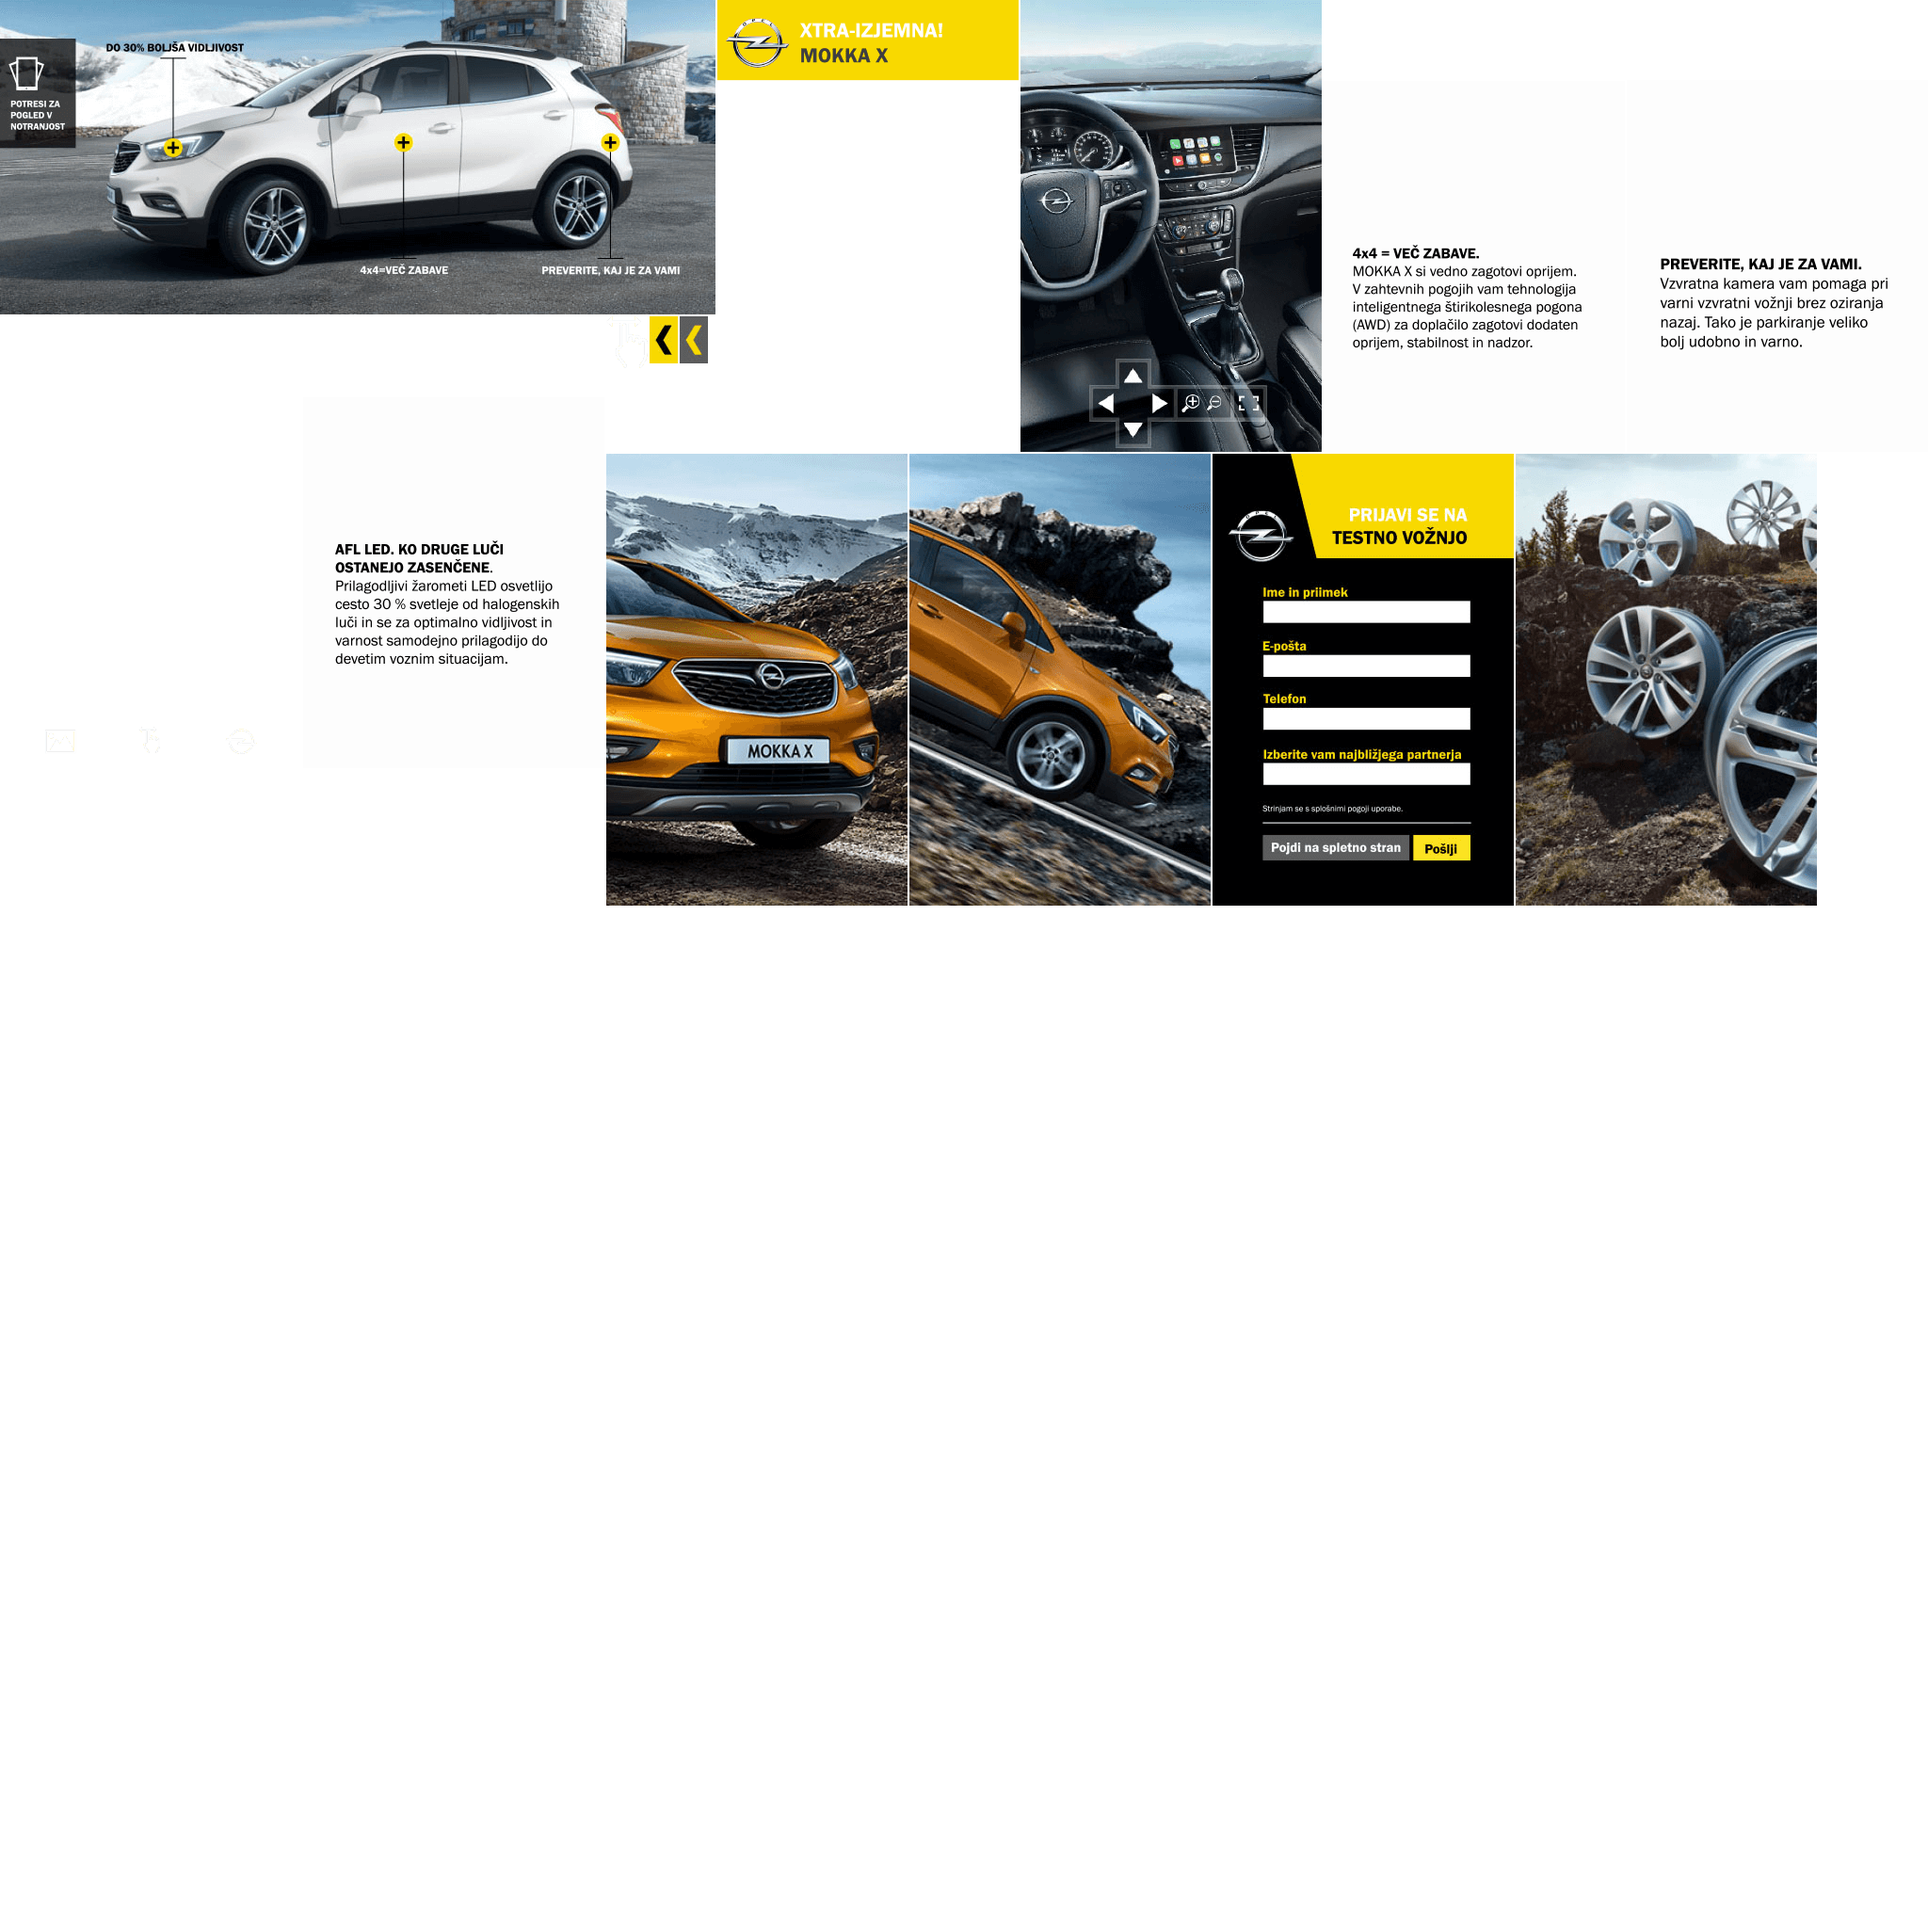
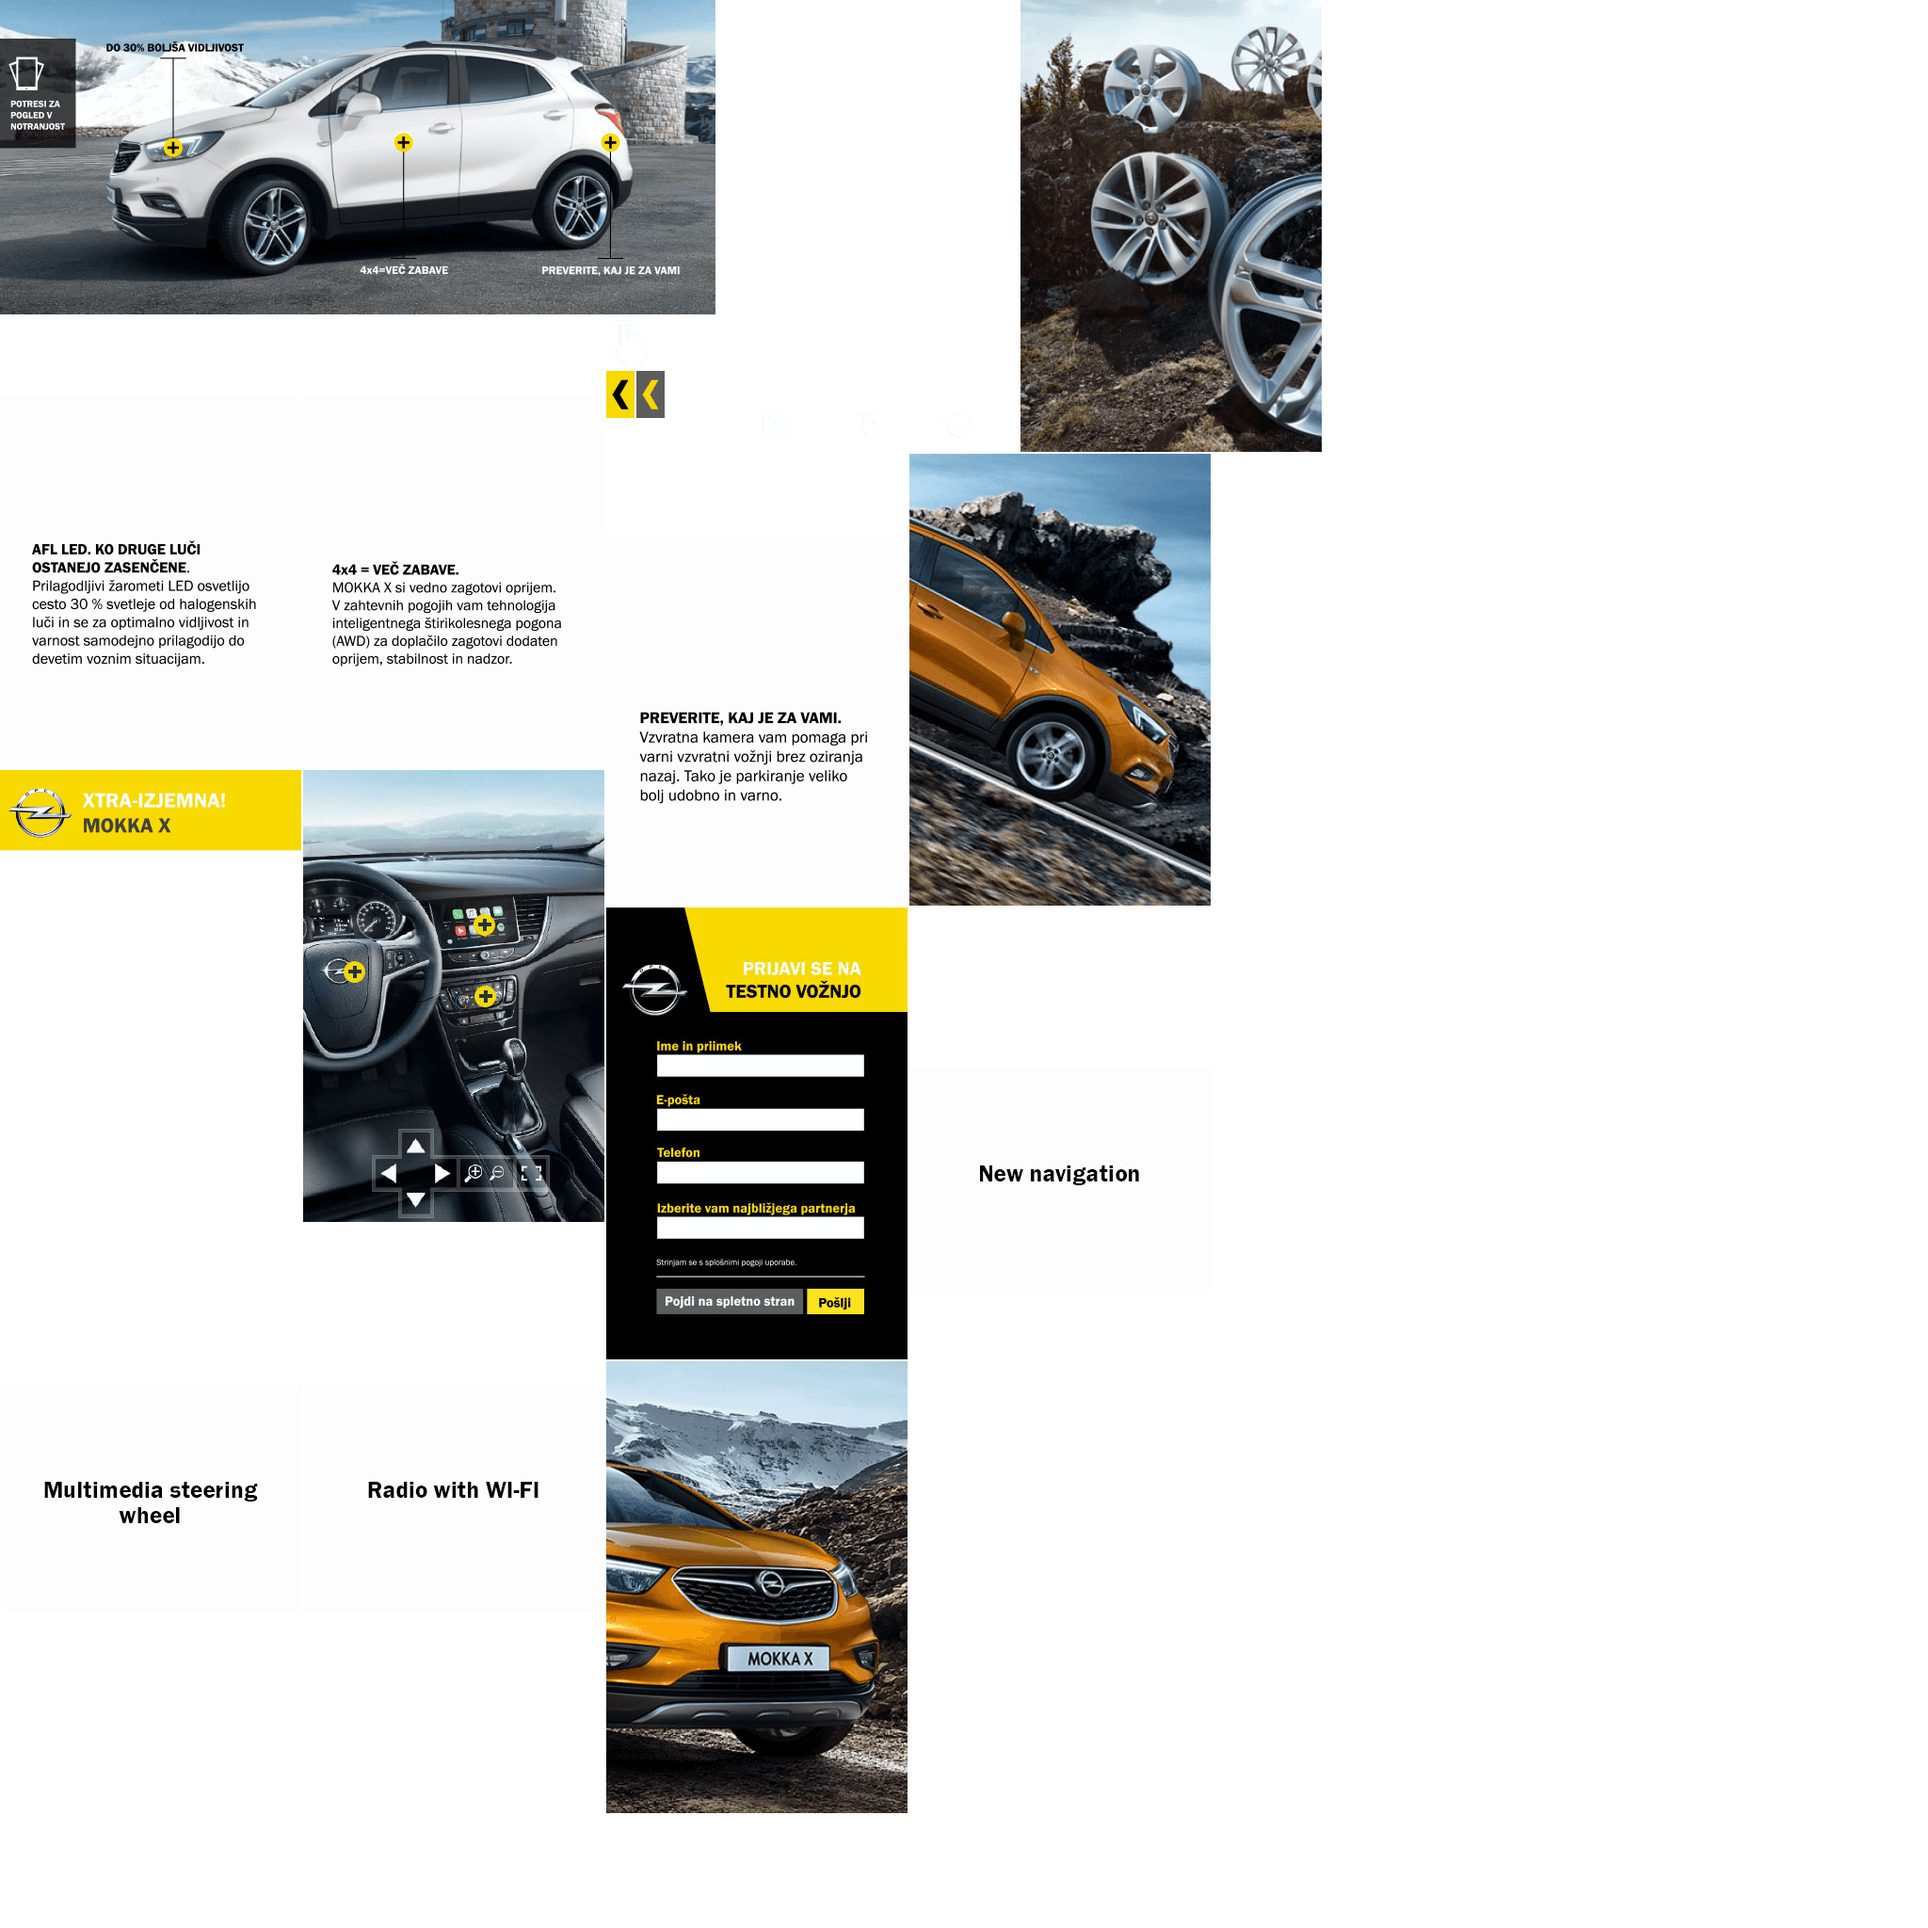
Add files via upload

diff --git a/index.js b/index.js
@@ -10,14 +10,14 @@ lib.properties = {
 	color: "#FFFFFF",
 	opacity: 1.00,
 	manifest: [
-		{src:"images/index_atlas_.png?1481831180453", id:"index_atlas_"}
+		{src:"images/index_atlas_.png?1482342594342", id:"index_atlas_"}
 	]
 };
 
 
 
 lib.ssMetadata = [
-		{name:"index_atlas_", frames: [[322,336,320,480],[1406,0,320,480],[1728,0,320,480],[0,336,320,480],[762,0,320,480],[1084,0,320,480],[0,0,760,334],[690,336,30,50],[722,336,30,50],[644,336,44,56],[644,482,320,480],[966,482,320,480],[1610,482,320,480],[1288,482,320,480]]}
+		{name:"index_atlas_", frames: [[0,336,320,480],[322,336,320,480],[644,482,320,480],[762,0,320,480],[0,818,320,480],[322,818,320,480],[0,0,760,334],[644,394,30,50],[676,394,30,50],[644,336,44,56],[644,1446,320,480],[966,482,320,480],[1084,0,320,480],[644,964,320,480],[0,1300,320,480],[966,964,320,480],[322,1300,320,480]]}
 ];
 
 
@@ -123,6 +123,39 @@ lib.ssMetadata = [
 
 
 
+(lib.text1 = function() {
+	this.spriteSheet = ss["index_atlas_"];
+	this.gotoAndStop(14);
+}).prototype = p = new cjs.Sprite();
+
+
+
+(lib.text2 = function() {
+	this.spriteSheet = ss["index_atlas_"];
+	this.gotoAndStop(15);
+}).prototype = p = new cjs.Sprite();
+
+
+
+(lib.text3 = function() {
+	this.spriteSheet = ss["index_atlas_"];
+	this.gotoAndStop(16);
+}).prototype = p = new cjs.Sprite();
+
+
+
+(lib.Weel = function(mode,startPosition,loop) {
+	this.initialize(mode,startPosition,loop,{});
+
+	// Layer 1
+	this.instance = new lib.text1();
+
+	this.timeline.addTween(cjs.Tween.get(this.instance).wait(1));
+
+}).prototype = p = new cjs.MovieClip();
+p.nominalBounds = new cjs.Rectangle(0,0,320,480);
+
+
 (lib.unutarnjost_back = function(mode,startPosition,loop) {
 	this.initialize(mode,startPosition,loop,{});
 
@@ -217,6 +250,30 @@ p.nominalBounds = new cjs.Rectangle(-160,-240,320,480);
 
 }).prototype = p = new cjs.MovieClip();
 p.nominalBounds = new cjs.Rectangle(0,0,28.2,35.9);
+
+
+(lib.RadioWIFI = function(mode,startPosition,loop) {
+	this.initialize(mode,startPosition,loop,{});
+
+	// Layer 1
+	this.instance = new lib.text3();
+
+	this.timeline.addTween(cjs.Tween.get(this.instance).wait(1));
+
+}).prototype = p = new cjs.MovieClip();
+p.nominalBounds = new cjs.Rectangle(0,0,320,480);
+
+
+(lib.Navigation = function(mode,startPosition,loop) {
+	this.initialize(mode,startPosition,loop,{});
+
+	// Layer 1
+	this.instance = new lib.text2();
+
+	this.timeline.addTween(cjs.Tween.get(this.instance).wait(1));
+
+}).prototype = p = new cjs.MovieClip();
+p.nominalBounds = new cjs.Rectangle(0,0,320,480);
 
 
 (lib.Gallery_back = function(mode,startPosition,loop) {
@@ -322,16 +379,136 @@ p.nominalBounds = null;
 (lib.unutarnjost = function(mode,startPosition,loop) {
 	this.initialize(mode,startPosition,loop,{});
 
-	// Layer 1
+	// timeline functions:
+	this.frame_0 = function() {
+		/* Mouse Click Event
+		Clicking on the specified symbol instance executes a function in which you can add your own custom code.
+		
+		Instructions:
+		1. Add your custom code on a new line after the line that says "// Start your custom code" below.
+		The code will execute when the symbol instance is clicked.
+		*/
+		var opened = false;
+		this.openWeel.addEventListener("click", fl_MouseClickHandler_14.bind(this));
+		
+		function fl_MouseClickHandler_14()
+		{
+			if(!opened){
+					TweenLite.to(this.Weel,1, {
+					y: "-=480",
+				ease: Power2.easeOut
+				})
+				opened = true;
+			}
+		}
+		this.Weel.addEventListener("click", fl_MouseClickHandler_15.bind(this));
+		
+		function fl_MouseClickHandler_15()
+		{
+			if(opened){
+					TweenLite.to(this.Weel,1, {
+					y: "+=480",
+				ease: Power2.easeIn
+				})
+				opened = false;
+			}
+		}
+		
+		//
+		
+		this.openNavigation.addEventListener("click", fl_MouseClickHandler_16.bind(this));
+		
+		function fl_MouseClickHandler_16()
+		{
+			if(!opened){
+					TweenLite.to(this.Navigation,1, {
+					y: "-=480",
+				ease: Power2.easeOut
+				})
+				opened = true;
+			}
+		}
+		this.Navigation.addEventListener("click", fl_MouseClickHandler_17.bind(this));
+		
+		function fl_MouseClickHandler_17()
+		{
+			if(opened){
+					TweenLite.to(this.Navigation,1, {
+					y: "+=480",
+				ease: Power2.easeIn
+				})
+				opened = false;
+			}
+		}
+		
+		
+		///
+		this.openRadio.addEventListener("click", fl_MouseClickHandler_18.bind(this));
+		
+		function fl_MouseClickHandler_18()
+		{
+			if(!opened){
+					TweenLite.to(this.Radio,1, {
+					y: "-=480",
+				ease: Power2.easeOut
+				})
+				opened = true;
+			}
+		}
+		this.Radio.addEventListener("click", fl_MouseClickHandler_19.bind(this));
+		
+		function fl_MouseClickHandler_19()
+		{
+			if(opened){
+					TweenLite.to(this.Radio,1, {
+					y: "+=480",
+				ease: Power2.easeIn
+				})
+				opened = false;
+			}
+		}
+	}
+
+	// actions tween:
+	this.timeline.addTween(cjs.Tween.get(this).call(this.frame_0).wait(1));
+
+	// Text
+	this.Weel = new lib.Weel();
+	this.Weel.setTransform(160,720,1,1,0,0,0,160,240);
+
+	this.Navigation = new lib.Navigation();
+	this.Navigation.setTransform(160,720,1,1,0,0,0,160,240);
+
+	this.Radio = new lib.RadioWIFI();
+	this.Radio.setTransform(160,720,1,1,0,0,0,160,240);
+
+	this.timeline.addTween(cjs.Tween.get({}).to({state:[{t:this.Radio},{t:this.Navigation},{t:this.Weel}]}).wait(1));
+
+	// Buttons
+	this.openNavigation = new lib.Btn1();
+	this.openNavigation.setTransform(173.5,147.6);
+	new cjs.ButtonHelper(this.openNavigation, 0, 1, 2, false, new lib.Btn1(), 3);
+
+	this.openRadio = new lib.Btn1();
+	this.openRadio.setTransform(173.5,223.7);
+	new cjs.ButtonHelper(this.openRadio, 0, 1, 2, false, new lib.Btn1(), 3);
+
+	this.openWeel = new lib.Btn1();
+	this.openWeel.setTransform(36.6,197.5);
+	new cjs.ButtonHelper(this.openWeel, 0, 1, 2, false, new lib.Btn1(), 3);
+
 	this.btn = new lib.unutarnjost_back();
 	this.btn.setTransform(15,427,1,1,0,0,0,15,25);
 
+	this.timeline.addTween(cjs.Tween.get({}).to({state:[{t:this.btn},{t:this.openWeel},{t:this.openRadio},{t:this.openNavigation}]}).wait(1));
+
+	// Bg
 	this.instance = new lib.notranjost();
 
-	this.timeline.addTween(cjs.Tween.get({}).to({state:[{t:this.instance},{t:this.btn}]}).wait(1));
+	this.timeline.addTween(cjs.Tween.get(this.instance).wait(1));
 
 }).prototype = p = new cjs.MovieClip();
-p.nominalBounds = new cjs.Rectangle(0,0,320,480);
+p.nominalBounds = new cjs.Rectangle(0,0,320,960);
 
 
 (lib.form2 = function(mode,startPosition,loop) {
